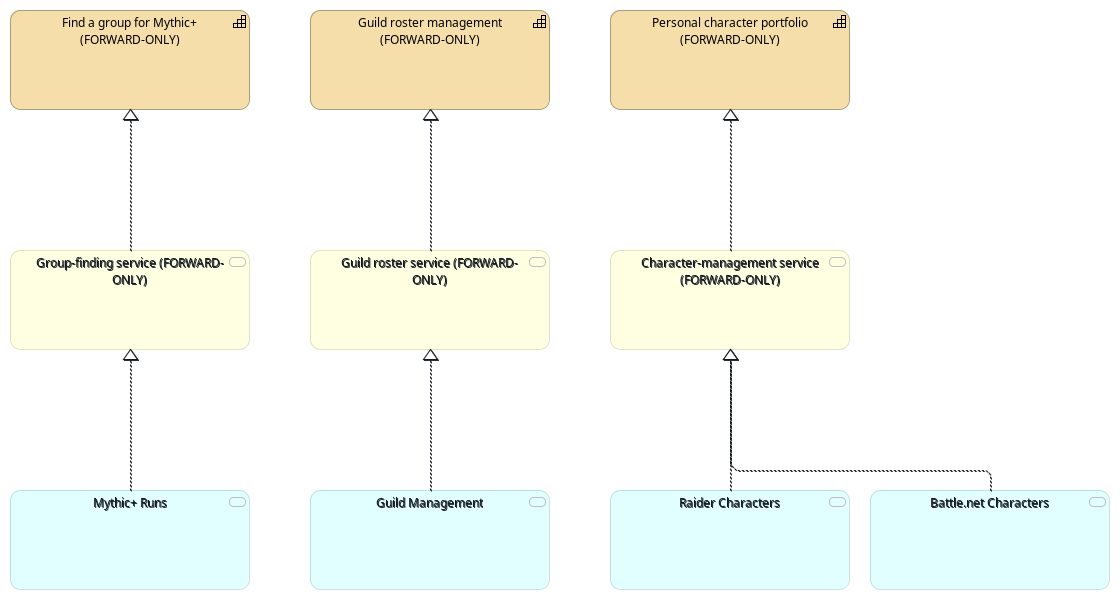
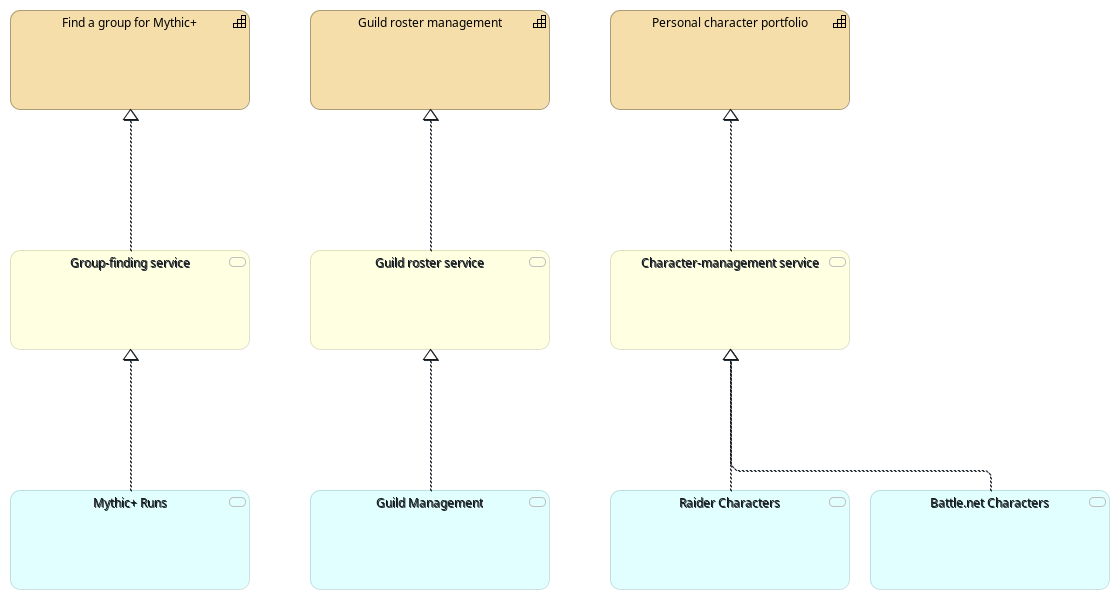
Fix architecture docs model

diff --git a/docs/architecture/README.md b/docs/architecture/README.md
@@ -11,7 +11,7 @@ The model was lifted from the repository's .NET solution, Bicep IaC, and GitHub 
 | 1 | Application Cooperation | `Application Cooperation` | [`id-view-app-cooperation.png`](renders/id-view-app-cooperation.png) |
 | 2 | Technology Realisation (Hosting + Data Plane) | `Technology Usage` | [`id-view-technology.png`](renders/id-view-technology.png) |
 | 3 | Technology Security (MI + RBAC) | `Technology Usage` | [`id-view-technology-security.png`](renders/id-view-technology-security.png) |
-| 4 | Deployment Topology (single-environment) | `Migration` | [`id-view-migration.png`](renders/id-view-migration.png) |
+| 4 | Production Release Migration | `Migration` | [`id-view-migration.png`](renders/id-view-migration.png) |
 | 5 | Capability Map (FORWARD-ONLY scaffold) | `Capability Map` | [`id-view-capability-map.png`](renders/id-view-capability-map.png) |
 | 6 | Motivation (FORWARD-ONLY scaffold) | `Motivation` | [`id-view-motivation.png`](renders/id-view-motivation.png) |
 | 7 | Mythic+ Run Signup — Business Process Cooperation | `Business Process Cooperation` | [`id-view-business-processes.png`](renders/id-view-business-processes.png) |
@@ -20,91 +20,53 @@ The model was lifted from the repository's .NET solution, Bicep IaC, and GitHub 
 | 10 | Sign up for run — Service Realization (Process-rooted) | `Service Realization` | [`id-view-service-realization.png`](renders/id-view-service-realization.png) |
 | 11 | Cancel signup — Service Realization (Process-rooted) | `Service Realization` | [`id-view-sr-cancel-signup.png`](renders/id-view-sr-cancel-signup.png) |
 
-## Render Gallery
-
-| View | Render |
-|---|---|
-| Application Cooperation | [<img src="renders/id-view-app-cooperation.png" alt="Application Cooperation" width="420">](renders/id-view-app-cooperation.png) |
-| Technology Realisation (Hosting + Data Plane) | [<img src="renders/id-view-technology.png" alt="Technology Realisation" width="420">](renders/id-view-technology.png) |
-| Technology Security (MI + RBAC) | [<img src="renders/id-view-technology-security.png" alt="Technology Security" width="420">](renders/id-view-technology-security.png) |
-| Deployment Topology (single-environment) | [<img src="renders/id-view-migration.png" alt="Deployment Topology" width="420">](renders/id-view-migration.png) |
-| Capability Map (FORWARD-ONLY scaffold) | [<img src="renders/id-view-capability-map.png" alt="Capability Map" width="420">](renders/id-view-capability-map.png) |
-| Motivation (FORWARD-ONLY scaffold) | [<img src="renders/id-view-motivation.png" alt="Motivation" width="420">](renders/id-view-motivation.png) |
-| Mythic+ Run Signup — Business Process Cooperation | [<img src="renders/id-view-business-processes.png" alt="Mythic+ Run Signup Business Process Cooperation" width="420">](renders/id-view-business-processes.png) |
-| Browse open runs — Service Realization (Process-rooted) | [<img src="renders/id-view-sr-browse-runs.png" alt="Browse open runs Service Realization" width="420">](renders/id-view-sr-browse-runs.png) |
-| Inspect run detail — Service Realization (Process-rooted) | [<img src="renders/id-view-sr-inspect-run.png" alt="Inspect run detail Service Realization" width="420">](renders/id-view-sr-inspect-run.png) |
-| Sign up for run — Service Realization (Process-rooted) | [<img src="renders/id-view-service-realization.png" alt="Sign up for run Service Realization" width="420">](renders/id-view-service-realization.png) |
-| Cancel signup — Service Realization (Process-rooted) | [<img src="renders/id-view-sr-cancel-signup.png" alt="Cancel signup Service Realization" width="420">](renders/id-view-sr-cancel-signup.png) |
-
 ### 1. Application Cooperation
-
-![Application Cooperation](renders/id-view-app-cooperation.png)
 
 LFM-internal vs Blizzard-external trust boundary, drawn explicitly with two `Grouping`s. Inside LFM: `Lfm.App.Core` serves `Lfm.App` (Blazor WASM SPA); `Lfm.Contracts` (shared DTO library) serves all three internal projects; `Lfm.Api` (Azure Functions HTTP API) exposes the `REST API (/api/*)` interface that serves `Lfm.App`. Inside Blizzard: `Battle.net OAuth 2.0` serves `Lfm.Api` (login flow); `WoW Profile API` and `WoW Game Data API` serve `Lfm.Api` (character + reference data); `render.worldofwarcraft.com` is consumed directly by the SPA browser (CSP-allowlisted).
 
 ### 2. Technology Realisation (Hosting + Data Plane)
 
-![Technology Realisation](renders/id-view-technology.png)
-
 The Azure resources and data-plane artifacts (single resource group, single region) with their hosting + data-plane relationships: `Azure Static Web Apps` hosts `Lfm.App`; `Azure Function App` hosts `Lfm.Api` on an App Service Plan using the committed Y1 Dynamic SKU and consumes `Cosmos DB account` (Free Tier, `disableLocalAuth=true`), `Storage account` (Standard_LRS, `allowSharedKeyAccess=false`), and `Key Vault` (RBAC-authorized) as data-plane services; `Application Insights` is workspace-based, aggregated by `Log Analytics workspace`. The Cosmos SQL database Artifact, Functions runtime version, container Artifacts, diagnostic-settings flows, and the Action Group + Cosmos throttle alert are tracked in the model but reserved for detail views.
 
 ### 3. Technology Security (MI + RBAC)
 
-![Technology Security](renders/id-view-technology-security.png)
+How `Lfm.Api` authenticates to every data-plane resource. The Function App carries a system-assigned managed identity (no client secrets, no shared keys). The MI is granted six baseline data-plane RBAC roles in [`infra/modules/functions.bicep`](../../infra/modules/functions.bicep): **Key Vault Secrets User** on the Vault, **Cosmos DB Built-in Data Contributor** on the account, **Storage Blob Data Owner** + **Queue Data Contributor** + **Table Data Contributor** on the account, **Monitoring Metrics Publisher** on Application Insights (the last is required because App Insights has `DisableLocalAuth=true`). [`infra/modules/dataprotection.bicep`](../../infra/modules/dataprotection.bicep) adds the Data Protection-specific **Key Vault Crypto User** and **Storage Blob Data Contributor** grants for the encrypted key ring. Cosmos `disableLocalAuth=true` and Storage `allowSharedKeyAccess=false` make RBAC the **only** authentication path; the Serving edges into the Function App are runtime dependencies authorized by those managed-identity role assignments.
 
-How `Lfm.Api` authenticates to every data-plane resource. The Function App carries a system-assigned managed identity (no client secrets, no shared keys). The MI is granted six baseline data-plane RBAC roles in [`infra/modules/functions.bicep`](../../infra/modules/functions.bicep): **Key Vault Secrets User** on the Vault, **Cosmos DB Built-in Data Contributor** on the account, **Storage Blob Data Owner** + **Queue Data Contributor** + **Table Data Contributor** on the account, **Monitoring Metrics Publisher** on Application Insights (the last is required because App Insights has `DisableLocalAuth=true`). [`infra/modules/dataprotection.bicep`](../../infra/modules/dataprotection.bicep) adds the Data Protection-specific **Key Vault Crypto User** and **Storage Blob Data Contributor** grants for the encrypted key ring. Cosmos `disableLocalAuth=true` and Storage `allowSharedKeyAccess=false` make RBAC the **only** authentication path — every Access edge from MI represents a role-assignment that must exist for the corresponding outbound call to succeed.
+### 4. Production Release Migration
 
-### 4. Deployment Topology (single-environment)
-
-![Deployment Topology](renders/id-view-migration.png)
-
-CI/CD release path lifted from [`.github/workflows/`](../../.github/workflows/). LFM deploys to **one** environment (`production`); `deploy.yml` has no environment input and tags every resource `environment=production`. The Deploy orchestrator aggregates Deploy Infrastructure (Bicep what-if + apply), Deploy App-Build (Functions zip + Blazor wwwroot bundle), and Deploy App (uploads to Function App + SWA). Both Deploy Infrastructure and Deploy App realise the Production Plateau. `Dev` and `Staging` plateaus exist as `FORWARD-ONLY` stubs in `<elements>` for future multi-environment work but are not drawn here. CI / E2E / Secret Scanning / Analyze Infrastructure / License Compliance / Stryker / Dependabot Auto-Merge are tracked but not visualised; they gate PRs, they do not realise the Plateau.
+CI/CD release path lifted from [`.github/workflows/`](../../.github/workflows/). LFM deploys to **one** environment (`production`); `deploy.yml` has no environment input and tags every resource `environment=production`. The Deploy orchestrator aggregates Deploy Infrastructure (Bicep what-if + apply), Deploy App-Build (Functions zip + Blazor wwwroot bundle), and Deploy App (uploads to Function App + SWA). The Migration view now shows a Repository Baseline Plateau, a Release to production Gap, the Deploy to Production Implementation Event, and the resulting Production Plateau. `Dev` and `Staging` plateaus exist as `FORWARD-ONLY` stubs in `<elements>` for future multi-environment work but are not drawn here. CI / E2E / Secret Scanning / Analyze Infrastructure / License Compliance / Stryker / Dependabot Auto-Merge are tracked but not visualised; they gate PRs, they do not realise the Plateau.
 
 ### 5. Capability Map (FORWARD-ONLY scaffold)
-
-![Capability Map](renders/id-view-capability-map.png)
 
 Three-row realisation chain for the architect to iterate on: real **Application Services** (lifted from `api/Functions/*`) → forward-only **Business Services** (suggestive labels inferred from the API surface) → forward-only **Strategy Capabilities** (architect to validate or rename). The three Capabilities ("Find a group for Mythic+", "Guild roster management", "Personal character portfolio") are placeholders — they have not been validated against business stakeholders and are likely incomplete (no Account / Authentication capability is stubbed yet, no Stakeholders are modeled, and the Motivation layer is only a minimal run-signup seed rather than a full capability rationale).
 
 ### 6. Motivation (FORWARD-ONLY scaffold)
 
-![Motivation](renders/id-view-motivation.png)
-
-Forward-only seed for the "why" behind the run-signup capability. It connects the inferred `Mythic+ group-finding friction` Driver to the inferred `Frictionless raid signup` Goal. Both elements are placeholders derived from the current product surface, not validated stakeholder intent; the architect should replace or refine them before using the view as governance evidence.
+Forward-only seed for the "why" behind the run-signup capability. It connects the inferred `Mythic+ group-finding friction` Driver to the inferred `Frictionless raid signup` Goal and adds the `Expose run signup entry point` Requirement as the design constraint that realizes the goal. These elements are placeholders derived from the current product surface, not validated stakeholder intent; the architect should replace or refine them before using the view as governance evidence.
 
 ### 7. Mythic+ Run Signup — Business Process Cooperation (FORWARD-ONLY)
 
-![Business Process Cooperation](renders/id-view-business-processes.png)
-
-§9.7 Business Process Cooperation view of the user-driven "Sign up for Mythic+ run" flow. **Active structure** (top): a `Mythic+ Player` Business Actor Assigned to every user-driven Behaviour. **Behaviour** (middle, left-to-right Triggering chain): an entry `Player wants to run a key` Business Event → `Browse open runs` (realised by `RunsListFunction`) → `Inspect run detail` (`RunsDetailFunction`) → `Sign up for run` (`RunsSignupFunction`) → terminal `Signup confirmed` Business Event; an alt-path Flow from `Sign up for run` to `Cancel signup` (`RunsCancelSignupFunction`). **Passive structure** (bottom): `Run` and `Signup` Business Objects, Accessed by the Behaviour steps that read or write them. Every Process / Event / Object carries `(FORWARD-ONLY)` in its display name — LFM has no Durable Functions orchestrators or Logic Apps, so this chain is architect-authored rather than lifted (per architecture-design `references/procedures/lifting-rules-process.md`). Names and chain shape have **not** been validated against business stakeholders.
+§9.7 Business Process Cooperation view of the user-driven "Sign up for Mythic+ run" flow. **Active structure** (top): a `Mythic+ Player` Business Actor Assigned to every user-driven Behaviour. **Behaviour** (middle, left-to-right Triggering chain): an entry `Player wants to run a key` Business Event → `Browse open runs` (realised by `RunsListFunction`) → `Inspect run detail` (`RunsDetailFunction`) → `Sign up for run` (`RunsSignupFunction`) → terminal `Signup confirmed` Business Event; an alt-path Flow from `Sign up for run` to `Cancel signup` (`RunsCancelSignupFunction`). **Passive structure** (bottom): `Run` and `Signup` Business Objects, Accessed by the Behaviour steps that read or write them. LFM has no Durable Functions orchestrators or Logic Apps, so this chain is architect-authored rather than lifted (per architecture-design `references/procedures/lifting-rules-process.md`); forward-only status is retained in element documentation rather than repeated in visible labels. Names and chain shape have **not** been validated against business stakeholders.
 
 ### 8. Browse open runs — Service Realization (Process-rooted)
-
-![Browse open runs Service Realization](renders/id-view-sr-browse-runs.png)
 
 §9.3 Service Realization drill-down for the `Browse open runs` Business Process. The forward-only Business Process is realised by the real `Mythic+ Runs` Application Service, implemented by `Lfm.Api`, hosted on `Azure Function App`, and served by `Azure Cosmos DB account` on the data plane. The user-driven entry point is the UI Application Component [`app/Pages/RunsPage.razor`](../../app/Pages/RunsPage.razor) exposing the `/runs` Application Interface.
 
 ### 9. Inspect run detail — Service Realization (Process-rooted)
 
-![Inspect run detail Service Realization](renders/id-view-sr-inspect-run.png)
-
 §9.3 Service Realization drill-down for the `Inspect run detail` Business Process. The forward-only process is realised by the same real `Mythic+ Runs` Application Service and `Lfm.Api` component, hosted on `Azure Function App`, with `Azure Cosmos DB account` serving the run-detail read path. The user-driven entry point is [`app/Pages/RunsPage.razor`](../../app/Pages/RunsPage.razor) exposing the `/runs/{RunId}` Application Interface.
 
 ### 10. Sign up for run — Service Realization (Process-rooted)
-
-![Service Realization](renders/id-view-service-realization.png)
 
 §9.3 Service Realization view, Process-rooted modality. The Business Process `Sign up for run` (top, FORWARD-ONLY) drills down through `Mythic+ Runs` Application Service → `Lfm.Api` Application Component → `Azure Function App` Technology Node, with `Azure Cosmos DB account` serving the Function App on the data plane. Per the §9.3 Blazor idiom, the user-driven entry point is the UI Application Component `app/Pages/RunsPage.razor` exposing the `/runs/{RunId}` Application Interface; the UI Component carries a Realisation edge to the Business Process. This view satisfies the AD-B-6 / AD-B-7 / AD-B-8 / AD-B-9 / AD-B-10 between-view invariants for the §9.7 Business Process Cooperation view (sibling).
 
 ### 11. Cancel signup — Service Realization (Process-rooted)
 
-![Cancel signup Service Realization](renders/id-view-sr-cancel-signup.png)
-
 §9.3 Service Realization drill-down for the `Cancel signup` alternate-path Business Process. The process is realised by `Mythic+ Runs` through `Lfm.Api` on `Azure Function App`, with `Azure Cosmos DB account` serving the signup mutation path. The user-driven entry point remains [`app/Pages/RunsPage.razor`](../../app/Pages/RunsPage.razor) and the `/runs/{RunId}` Application Interface, matching the sibling cooperation view's alt-path Flow.
 
 ## Forward-only scope
 
-The Application, Technology, and Implementation & Migration layers are extracted from source — every element traces back to a `*.csproj`, a `*.bicep` resource, or a `.github/workflows/*.yml` file. The Strategy, Business, and Motivation layers are emitted as **forward-only stubs** per the architecture-design skill's §7.2 contract; their names are *suggestive*, not *authoritative*, and the architect owns their content. Stub elements carry `(FORWARD-ONLY)` in their display name and a `FORWARD-ONLY stub` prefix in their `<documentation>`. The Physical Layer is omitted entirely — there are no on-premises devices.
+The Application, Technology, and Implementation & Migration layers are extracted from source — every element traces back to a `*.csproj`, a `*.bicep` resource, or a `.github/workflows/*.yml` file. The Strategy, Business, and Motivation layers are emitted as **forward-only stubs** per the architecture-design skill's §7.2 contract; their names are *suggestive*, not *authoritative*, and the architect owns their content. Stub elements carry a `FORWARD-ONLY stub` prefix in their `<documentation>` while visible labels stay concise for rendered views. The Physical Layer is omitted entirely — there are no on-premises devices.
 
 ## How to view & edit
 
